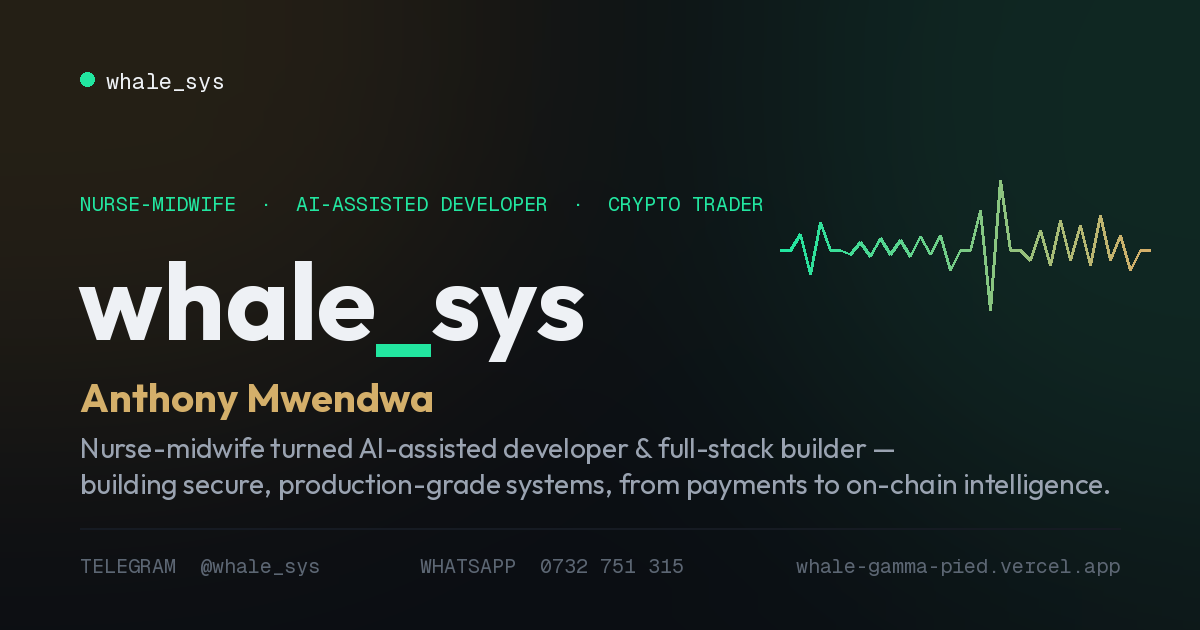
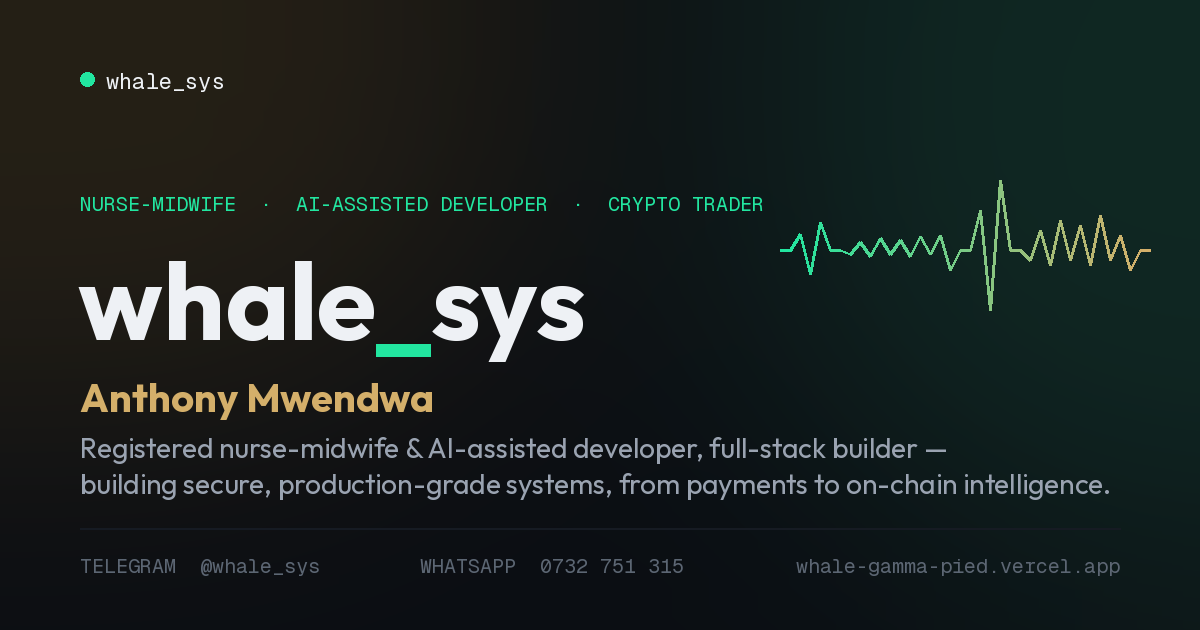
Fix AI-assisted wording consistency, nurse-midwife phrasing, tech stack restructure

Changed region(s): [[0.0617, 0.6937, 0.7708, 0.754]]

diff --git a/index.html b/index.html
@@ -251,6 +251,13 @@
   .cert-issuer{ color:var(--text-1); font-size:0.92rem; margin-bottom:22px; }
   .cert-meta{ display:flex; justify-content:space-between; border-top:1px solid var(--line-soft); padding-top:16px; font-family:'JetBrains Mono'; font-size:0.71rem; color:var(--text-2); }
   .cert-meta b{ color:var(--text-0); display:block; font-family:'Inter'; font-size:0.86rem; margin-top:4px; font-weight:600; }
+  .verify-link{
+    display:inline-flex; align-items:center; gap:6px; margin-top:20px;
+    font-family:'JetBrains Mono'; font-size:0.8rem; font-weight:500; color:var(--gold);
+    text-decoration:none; border-bottom:1px solid var(--gold-dim); padding-bottom:2px;
+    transition:border-color .2s ease;
+  }
+  .verify-link:hover{ border-color:var(--gold); }
 
   .stack-group{ margin-bottom:26px; }
   .stack-group:last-child{ margin-bottom:0; }
@@ -261,6 +268,14 @@
     padding:9px 15px; border-radius:8px; transition:border-color .2s ease, color .2s ease;
   }
   .stack-chip:hover{ border-color:var(--pulse); color:var(--pulse); }
+  .stack-chip-detailed{
+    display:flex; flex-direction:column; gap:5px; max-width:280px;
+    background:var(--bg-2); border:1px solid var(--line); border-radius:9px;
+    padding:12px 15px; transition:border-color .2s ease;
+  }
+  .stack-chip-detailed:hover{ border-color:var(--pulse-dim); }
+  .stack-chip-detailed .name{ font-size:0.86rem; color:var(--text-0); font-weight:600; }
+  .stack-chip-detailed .desc{ font-size:0.78rem; color:var(--text-2); line-height:1.5; }
 
   /* ---------- HOW IT WORKS ---------- */
   .how-grid{ display:flex; align-items:flex-start; gap:18px; }
@@ -362,7 +377,7 @@
         <h1 class="name">whale<span class="accent">_</span>sys</h1>
         <p class="full-name">Anthony Mwendwa</p>
         <p class="title-line">
-          Nurse-midwife turned <strong>AI-assisted developer and full-stack builder</strong> — building
+          Registered nurse-midwife and <strong>AI-assisted developer &amp; full-stack builder</strong> — building
           secure, production-grade software with the same precision once reserved for the bedside.
         </p>
         <div class="cta-row">
@@ -462,7 +477,7 @@
     <div class="section-head">
       <span class="section-tag">Services Offered</span>
       <h2 class="section-title">Core areas of professional practice.</h2>
-      <p class="section-sub">Five disciplines, one security-first standard of execution — every service
+      <p class="section-sub">Six disciplines, one security-first standard of execution — every service
       booked directly through Telegram or WhatsApp, no separate booking system required.</p>
     </div>
 
@@ -476,8 +491,8 @@
       <div class="service-card">
         <span class="service-num">02</span>
         <h3>Full-Stack &amp; Custom Website Development</h3>
-        <p>End-to-end web applications built on modern frameworks, deployed to production, and maintained
-        for reliability — from single-page sites to full custom platforms.</p>
+        <p>End-to-end web applications built through AI-assisted workflows on modern frameworks, deployed
+        to production, and maintained for reliability — from single-page sites to full custom platforms.</p>
       </div>
       <div class="service-card">
         <span class="service-num">03</span>
@@ -493,6 +508,12 @@
       </div>
       <div class="service-card">
         <span class="service-num">05</span>
+        <h3>Custom Telegram Bot Development</h3>
+        <p>Telegram bots built to spec — from payment and command flows to natural-language interfaces
+        and admin dashboards — tailored to exactly what you need, not a generic template.</p>
+      </div>
+      <div class="service-card">
+        <span class="service-num">06</span>
         <h3>Crypto Investing &amp; Trading</h3>
         <p>Active crypto investor and trader across major assets — including BTC, gold (XAUUSD), and
         forex pairs like EURUSD — using a structured SMC/ICT market-structure methodology and on-chain
@@ -552,6 +573,7 @@
           <div>Credential<b>CLLMSP</b></div>
           <div>Status<b style="color:var(--pulse)">Active</b></div>
         </div>
+        <a class="verify-link" href="https://courses.redteamleaders.com/exam-completion/2ca19ce212ab09d8" target="_blank" rel="noopener">Verify Credential →</a>
       </div>
 
       <div>
@@ -564,34 +586,80 @@
           </div>
         </div>
         <div class="stack-group">
-          <h4>Deployment &amp; Hosting</h4>
+          <h4>Frontend</h4>
           <div class="stack-chips">
-            <span class="stack-chip">Vercel</span>
-            <span class="stack-chip">Railway</span>
-            <span class="stack-chip">Render</span>
+            <div class="stack-chip-detailed">
+              <span class="name">Next.js 14 (App Router)</span>
+              <span class="desc">Powers every production site and dashboard, from Whale Enterprise to Axon Pulse.</span>
+            </div>
+            <div class="stack-chip-detailed">
+              <span class="name">Custom CSS (No Framework Dependencies)</span>
+              <span class="desc">Hand-built, zero-dependency styling for full control over performance and design.</span>
+            </div>
+            <span class="stack-chip">PWA (Progressive Web App)</span>
+            <span class="stack-chip">Responsive / Mobile-First UI</span>
           </div>
         </div>
         <div class="stack-group">
-          <h4>Backend &amp; Database</h4>
+          <h4>Backend</h4>
           <div class="stack-chips">
-            <span class="stack-chip">Next.js (Serverless API Routes)</span>
-            <span class="stack-chip">Supabase</span>
-            <span class="stack-chip">Vercel KV</span>
+            <div class="stack-chip-detailed">
+              <span class="name">Next.js (Serverless API Routes)</span>
+              <span class="desc">Handles all backend logic for WHALE_SYS — payments, splits, and command parsing — no separate server.</span>
+            </div>
+          </div>
+        </div>
+        <div class="stack-group">
+          <h4>Database</h4>
+          <div class="stack-chips">
+            <div class="stack-chip-detailed">
+              <span class="name">Supabase</span>
+              <span class="desc">Primary database across Axon Merchant, axonnurse, and other relational-data projects.</span>
+            </div>
+            <div class="stack-chip-detailed">
+              <span class="name">Vercel KV</span>
+              <span class="desc">Entire data layer for WHALE_SYS — chosen after hitting Supabase free-tier limits.</span>
+            </div>
           </div>
         </div>
         <div class="stack-group">
           <h4>AI</h4>
           <div class="stack-chips">
-            <span class="stack-chip">Groq AI (Llama 3.3 70B)</span>
+            <div class="stack-chip-detailed">
+              <span class="name">Groq AI (Llama 3.3 70B)</span>
+              <span class="desc">Powers the natural-language command layer — parses intent, but never moves money directly.</span>
+            </div>
+          </div>
+        </div>
+        <div class="stack-group">
+          <h4>Deployment &amp; Hosting</h4>
+          <div class="stack-chips">
+            <div class="stack-chip-detailed">
+              <span class="name">Vercel</span>
+              <span class="desc">Primary hosting and deploy target, connected directly to GitHub.</span>
+            </div>
+            <div class="stack-chip-detailed">
+              <span class="name">CI/CD (GitHub → Vercel)</span>
+              <span class="desc">Every push triggers an automatic production deploy — no manual build step.</span>
+            </div>
+            <span class="stack-chip">Railway</span>
+            <span class="stack-chip">Render</span>
           </div>
         </div>
         <div class="stack-group">
           <h4>Integrations</h4>
           <div class="stack-chips">
+            <div class="stack-chip-detailed">
+              <span class="name">M-Pesa Daraja API</span>
+              <span class="desc">Direct integration for STK push and C2B payment callbacks across WHALE_SYS and Axonarchitects.</span>
+            </div>
+            <div class="stack-chip-detailed">
+              <span class="name">Pretium (Crypto Agent / MCP)</span>
+              <span class="desc">Reverse-engineered JSON-RPC integration with Pretium's MCP server for crypto-to-fiat off-ramping.</span>
+            </div>
             <span class="stack-chip">Telegram Bot API</span>
-            <span class="stack-chip">M-Pesa / STK Push</span>
             <span class="stack-chip">PayHero</span>
-            <span class="stack-chip">Pretium (Crypto Agent / MCP)</span>
+            <span class="stack-chip">Webhook Handlers</span>
             <span class="stack-chip">TradingView Pine Script</span>
             <span class="stack-chip">Make.com Automation</span>
             <span class="stack-chip">Binance / TwelveData APIs</span>
